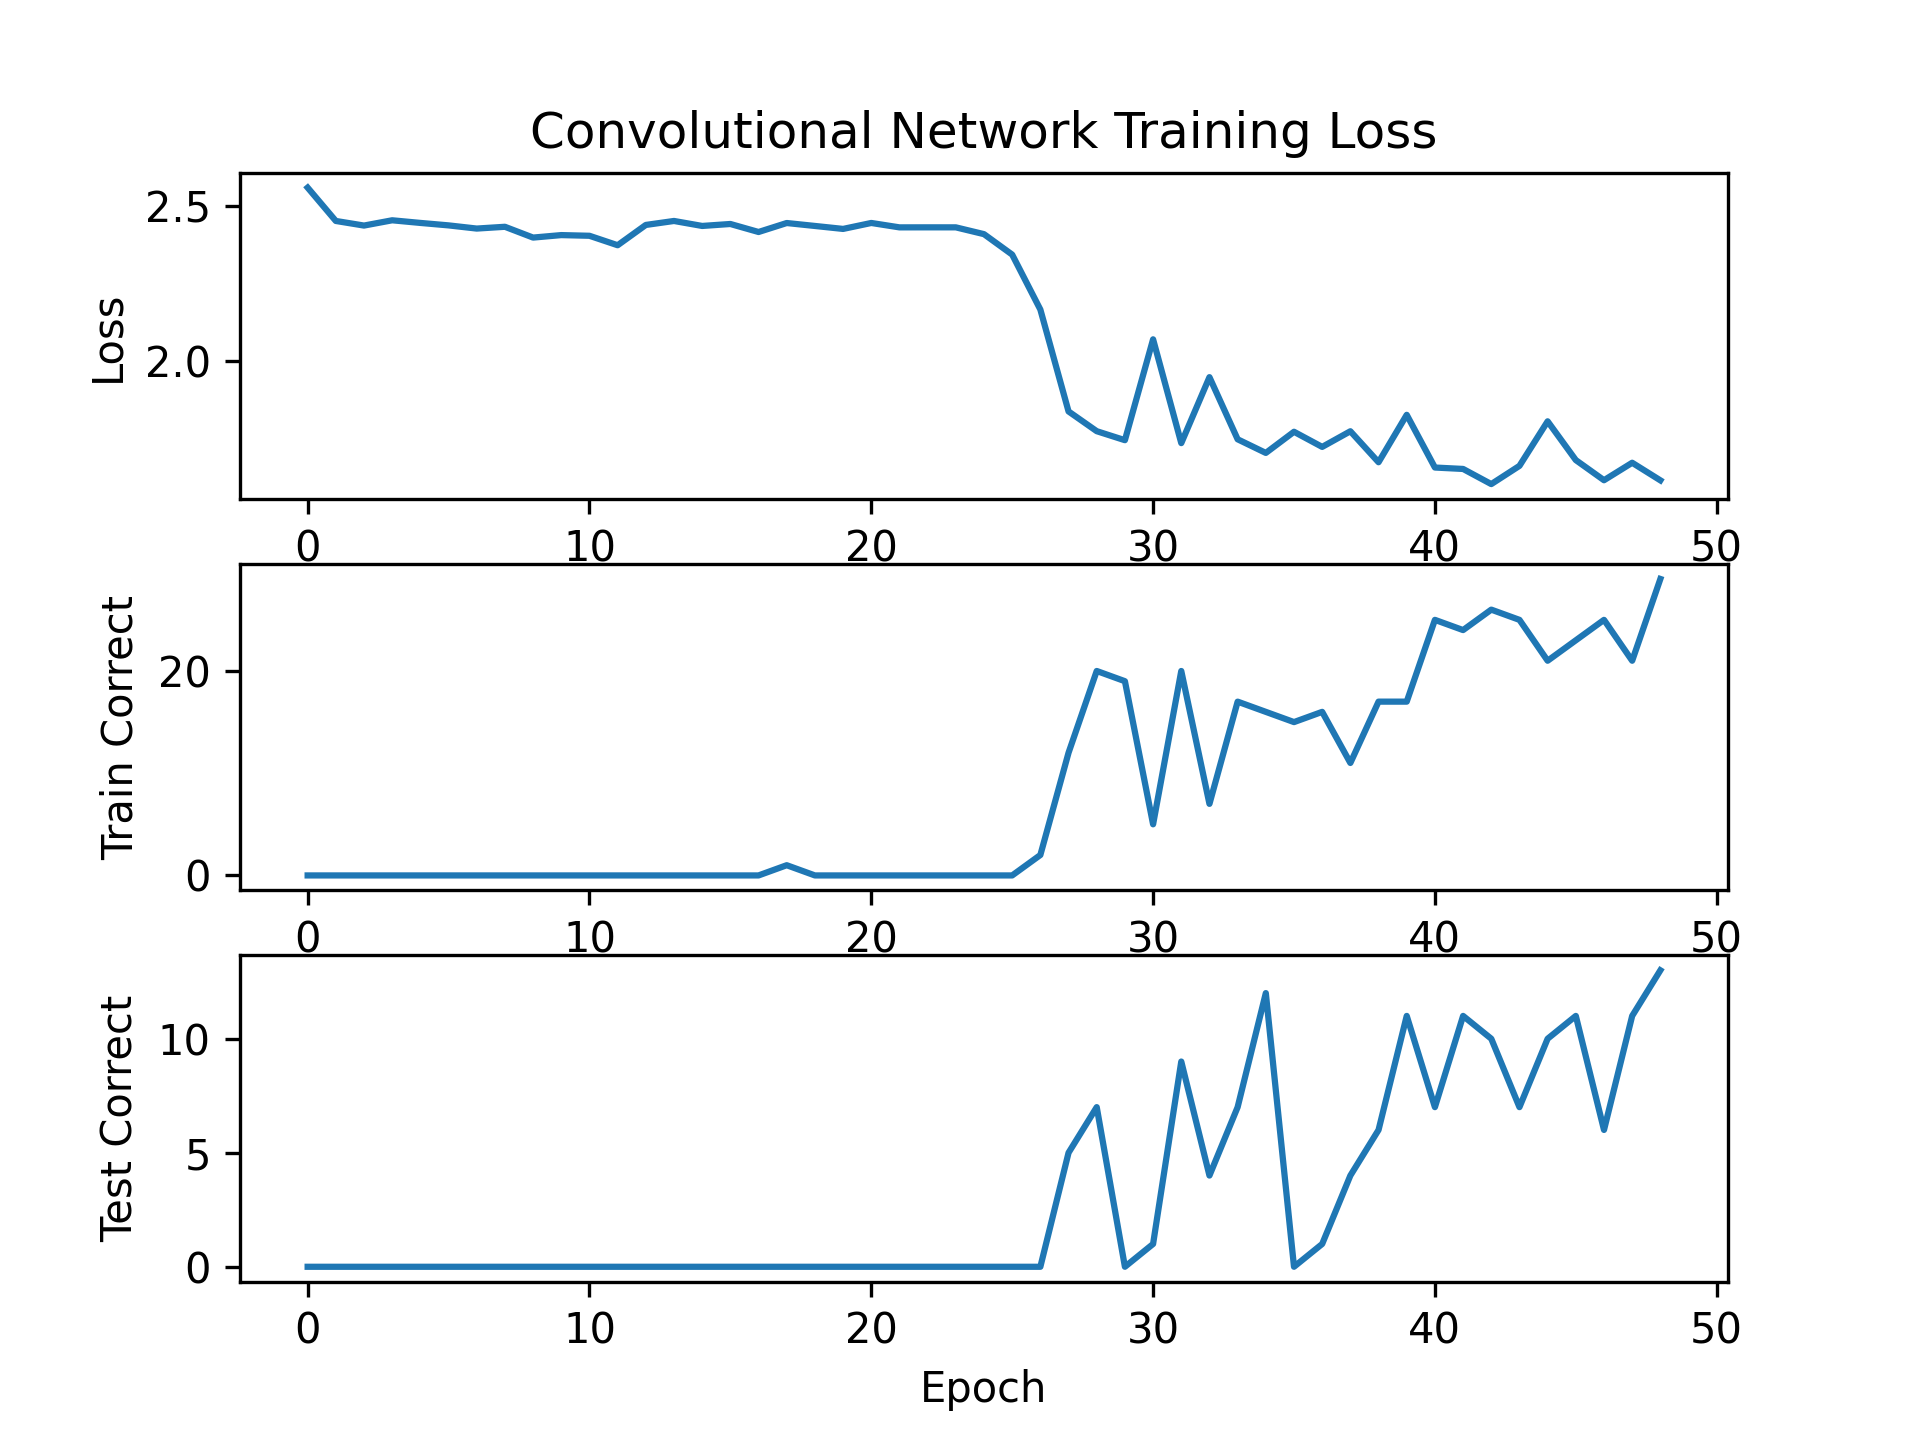
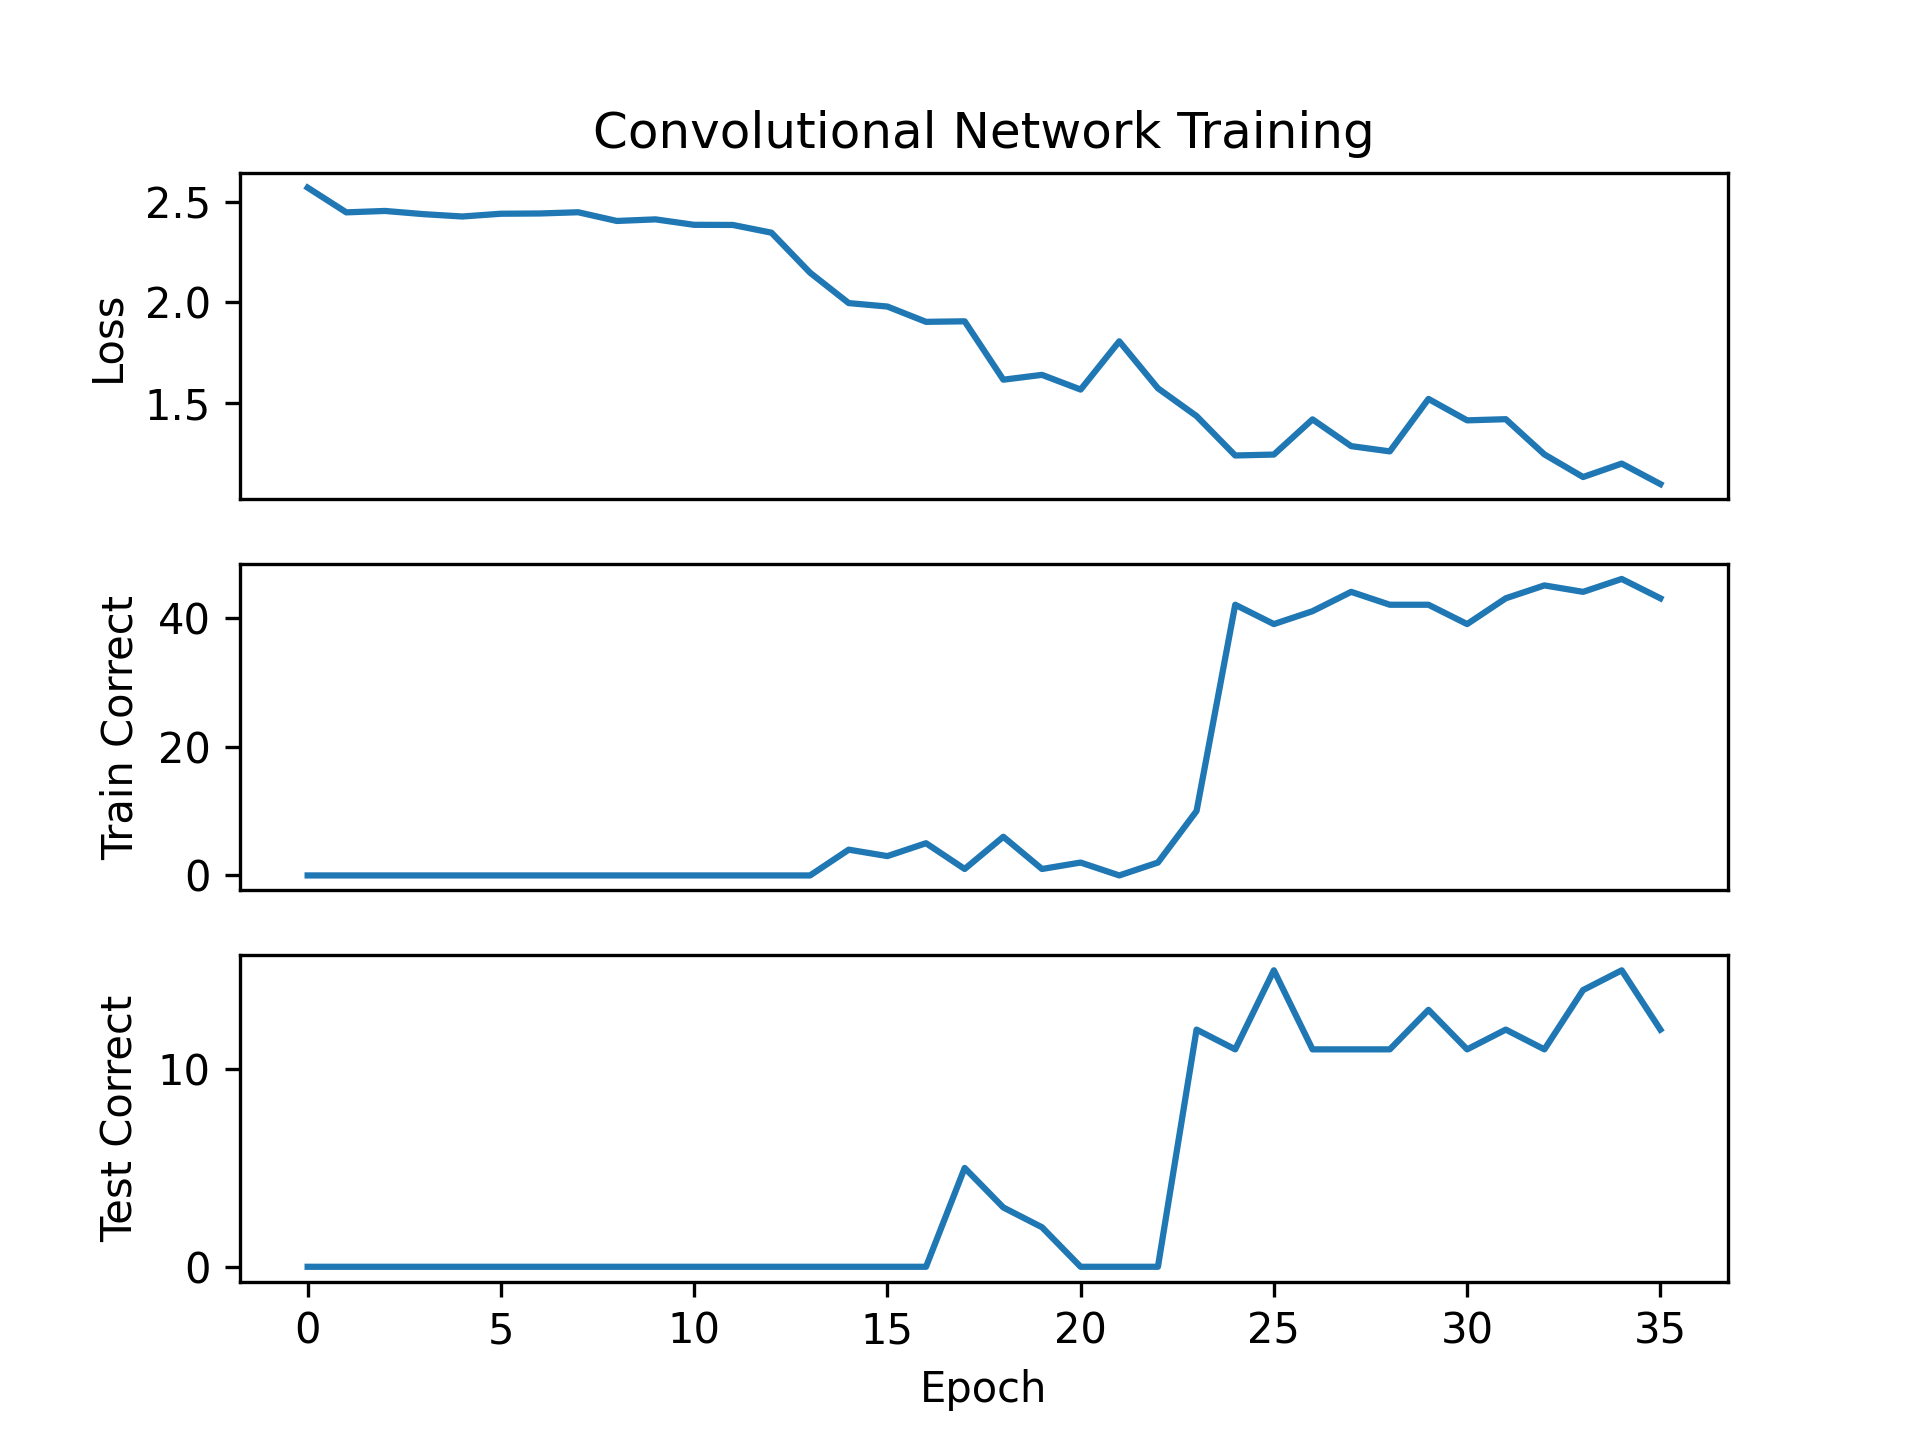
edits

diff --git a/cnnkernels.py b/cnnkernels.py
@@ -244,16 +244,19 @@ while True:
         plt.subplot(3,1,1)
         plt.plot(loss_track['epoch'],loss_track['loss'])
         plt.ylabel("Loss")
-        plt.title("Convolutional Network Training Loss")
+        plt.xticks([])
+        plt.title("Convolutional Network Training")
 
         plt.subplot(3,1,2)
         plt.plot(loss_track['epoch'],loss_track['train_correct'])
+        plt.xticks([])
         plt.ylabel("Train Correct")
 
         plt.subplot(3,1,3)
         plt.plot(loss_track['epoch'],loss_track['test_correct'])
         plt.ylabel("Test Correct")
         plt.xlabel("Epoch")
+        plt.xticks()
 
         plt.savefig("loss.png",dpi=300)
         plt.close()
